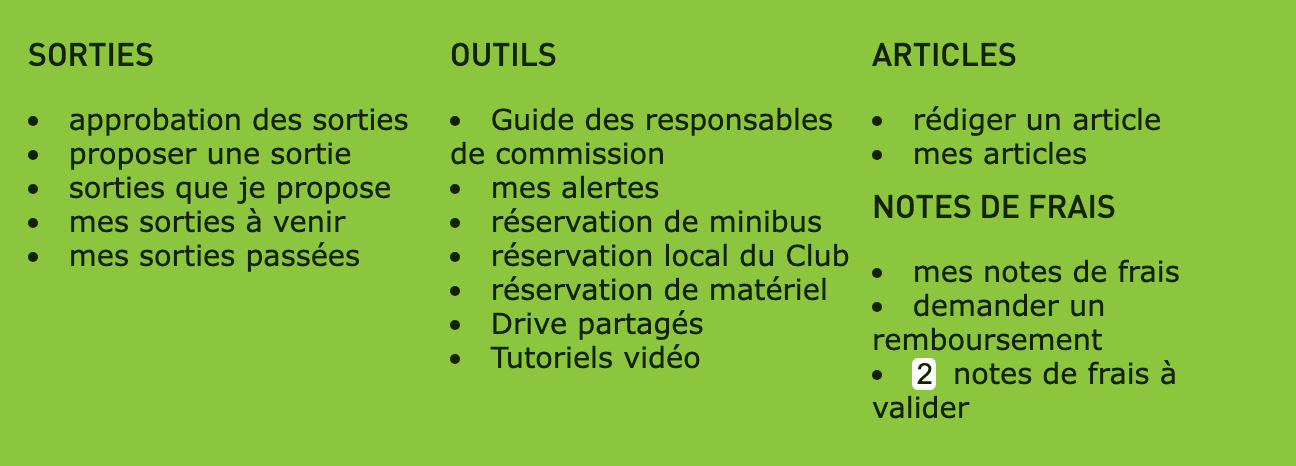
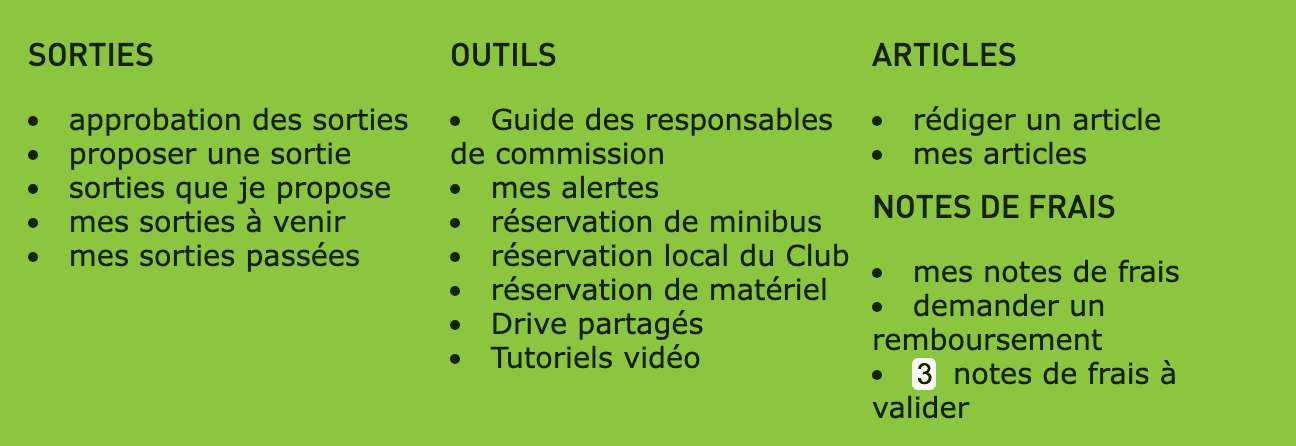
docs(notes-de-frais): captures refaites après les derniers correctifs, légendes, « à chaque modification », requête SQL d'abord sur staging
- Les six captures reprises avec les comptes de démo et des notes de démo
  propres (Playwright, 1280 px, échelle 2, pngquant), mêmes noms de fichiers :
  libellés du jour (« Nouvelle note de frais », « Justificatif (image) »,
  « ✓ Justificatifs joints. », « Don au club », « Brouillon »).
- Légendes alignées : bouton et état « Brouillon » de « Mes notes de frais »,
  nombre en tête de « à valider » et « Notes déjà traitées », « Retour aux
  notes à valider », choix du demandeur sous l'en-tête.
- La version avance à chaque modification de la note ; l'envoi d'un
  justificatif sur une note partie reçoit le même 422.
- Avant la mise en production : la requête SQL des `details` se lance d'abord
  sur staging (MySQL 5.7), elle n'a été essayée que sur MySQL 8.

diff --git a/docs/notes-de-frais.md b/docs/notes-de-frais.md
@@ -100,15 +100,15 @@ Seconde étape : une ligne par dépense avec son justificatif, le total, le choi
 
 ![Seconde étape d'une note de formation](images/notes-de-frais/hors-sortie-seconde-etape.png)
 
-« Mes notes de frais » : toutes les notes du demandeur, de sortie comme hors sortie, filtrables par type. Pour chacune : où elle en est (« Transmise au responsable de commission », « Transmise à la trésorerie », « Validée », « Comptabilisée », « À corriger » avec le message du refus), et les liens « Reprendre » ou « Corriger ». Le titre d'une note hors sortie ouvre sa page ; sous son montant, « dont X € remboursables » quand un plafond du club s'applique, ou « Don au club ». Une note de sortie renvoie vers la page de sa sortie.
+« Mes notes de frais » : toutes les notes du demandeur, de sortie comme hors sortie, filtrables par type, et le bouton « Nouvelle note de frais ». Pour chacune : où elle en est (« Brouillon », « Transmise au responsable de commission », « Transmise à la trésorerie », « Validée », « Comptabilisée », « À corriger » avec le message du refus), et les liens « Reprendre » ou « Corriger ». Le titre d'une note hors sortie ouvre sa page ; sous son montant, « dont X € remboursables » quand un plafond du club s'applique, ou « Don au club ». Une note de sortie renvoie vers la page de sa sortie.
 
 ![Page Mes notes de frais](images/notes-de-frais/hors-sortie-mes-notes.png)
 
-« Notes de frais à valider » : les notes qui attendent le responsable dans ses commissions.
+« Notes de frais à valider » : les notes qui attendent le responsable dans ses commissions, leur nombre en tête (« 3 notes en attente pour Sorties familles. »), puis le lien « Notes déjà traitées ».
 
 ![Page Notes de frais à valider](images/notes-de-frais/hors-sortie-a-valider.png)
 
-Page d'une note vue par le responsable : dépenses, justificatifs et mot du demandeur, puis « Refuser » ou « Valider ». Une fois la note passée, la page dit qui l'attend ou ce qui a été décidé. Le demandeur voit la même page, avec son choix (« Votre choix : remboursement, X € selon les plafonds du club. » ou « Votre choix : don au club. ») ; le responsable ne le voit pas.
+Page d'une note vue par le responsable : dépenses, justificatifs et mot du demandeur, puis « Refuser » ou « Valider ». Après sa décision, ou si la note a déjà été traitée entre-temps (« Cette note a déjà été traitée. »), la page propose « Retour aux notes à valider ». Une fois la note passée, la page dit qui l'attend ou ce qui a été décidé. Le demandeur voit la même page, avec son choix sous l'en-tête (« Votre choix : remboursement. », « Votre choix : remboursement, X € selon les plafonds du club. » ou « Votre choix : don au club. ») ; le responsable ne le voit pas.
 
 ![Page d'une note vue par le responsable](images/notes-de-frais/hors-sortie-detail-responsable.png)
 
@@ -138,10 +138,10 @@ Il n'y a pas d'adresse de trésorerie à configurer.
 - Plafonds : en configuration seulement. `<type>.plafonds.parNature` plafonne une nature sur chaque ligne (`portee: ligne`) ou sur son total dans la note (`portee: note`) ; `<type>.plafonds.total` plafonne le remboursable de la note.
 - Montants figés : à chaque envoi, `ExpenseReportCalculator::figerNoteHorsSortie()` enregistre le total déclaré, le total remboursable et, pour une formation, le taux kilométrique. Ce que le responsable a validé reste ce que la trésorerie paie, même si le barème change ensuite. Un brouillon ou une note à corriger suit le barème en vigueur.
 - Lecture de `details` : l'API refuse un montant ou une distance qui n'est pas un nombre positif d'au plus 100 000 (garde-fou technique), et deux lignes de même identifiant (`CoherenceValidator`). À la lecture, toute valeur passe par `ExpenseReportCalculator::nombre()` : un texte ou un nombre infini écrit en base compte pour 0, pour qu'aucune note, de sortie comme hors sortie, ne fasse échouer une liste.
-- Écritures simultanées : la note a un verrou optimiste (colonne `version`, qui avance à chaque écriture de la note).
+- Écritures simultanées : la note a un verrou optimiste (colonne `version`, qui avance à chaque modification de la note).
   - Onglet périmé : le demandeur lit `version` avec sa note, et le formulaire la renvoie dans chaque `PATCH`. Si la note a changé depuis (autre onglet, autre appareil), l'API répond 409 « Cette note a été modifiée dans un autre onglet ou sur un autre appareil. » sans rien écrire, et le formulaire propose « Recharger la dernière version ». Les écritures d'un même formulaire (enregistrement automatique des lignes, « Enregistrer pour plus tard », envoi) partent une par une, chacune avec la version reçue de la précédente : sinon le formulaire se contredirait lui-même. `version` est facultatif : compta-club ne l'envoie pas, et sans lui la dernière écriture passe.
   - Écritures croisées : de deux requêtes qui écrivent en même temps à partir de la même version (un envoi et une modification des lignes, deux décisions), la seconde reçoit un 409 « Cette note a été modifiée en même temps par une autre action. » et ne modifie pas la note. Le mail d'une note de sortie, lui, est mis en file pendant l'écriture : sur un conflit, il part quand même, et deux décisions différentes au même moment peuvent envoyer les deux mails au demandeur.
-  - Note partie depuis un autre onglet : une modification reçoit 422 « Cette note a déjà été envoyée : elle ne peut plus être modifiée. », et le formulaire passe à l'état « envoyée ».
+  - Note partie depuis un autre onglet : une modification, ou l'envoi d'un justificatif, reçoit 422 « Cette note a déjà été envoyée : elle ne peut plus être modifiée. », et le formulaire passe à l'état « envoyée ».
   - Le téléversement d'un justificatif verrouille la note et relit son statut avant d'écrire le fichier ; il ne fait pas avancer la version.
 - Migrations (jouées au déploiement par `clevercloud/post_build.sh`) :
   - `Version20261011120000` : type de note, sortie facultative, commission, objet, date de la dépense, lien de la formation, mot pour le responsable, totaux figés ;
@@ -159,7 +159,7 @@ Il n'y a pas d'adresse de trésorerie à configurer.
 1. [ ] Vérifier la nouvelle version de compta-club contre staging, qui tourne encore sur `main`, sans les notes hors sortie (préversion Vercel ou poste local, `NEXT_PUBLIC_API_URL` sur l'API de staging) : connexion, liste « À valider », filtres, page et PDF d'une note de sortie.
 2. [ ] Faire la recette de la plateforme sur staging avec de vrais rôles, mails et compta-club compris : la préversion Vercel de compta-club ou un poste local, `NEXT_PUBLIC_API_URL` sur l'API de staging. Les droits des données de démo ne reflètent pas la prod.
 3. [ ] Sur une copie de la prod, lire toutes les notes existantes par la nouvelle API : `GET /admin/notes-de-frais?pagination=false&inclure_brouillons=true` en gestionnaire, puis la liste du demandeur (« Mes notes de frais », `GET /notes-de-frais?inclure_brouillons=true`). Aucune ne doit faire échouer la lecture : une seule note illisible bloquerait compta-club.
-4. [ ] Sur la même copie, repérer les notes de sortie dont un montant ou une distance est écrit en texte : un texte qui n'est pas un nombre (« 45,50 », « abc ») compte désormais pour 0, et le total de la note baisse d'autant. La requête, en lecture seule, liste aussi les nombres écrits entre guillemets (« 12 »), qui gardent leur valeur, et les `details` qui ne sont pas du JSON lisible. Corriger les notes listées avec la trésorerie avant la mise en production.
+4. [ ] Sur la même copie, repérer les notes de sortie dont un montant ou une distance est écrit en texte : un texte qui n'est pas un nombre (« 45,50 », « abc ») compte désormais pour 0, et le total de la note baisse d'autant. La requête, en lecture seule, liste aussi les nombres écrits entre guillemets (« 12 »), qui gardent leur valeur, et les `details` qui ne sont pas du JSON lisible. Corriger les notes listées avec la trésorerie avant la mise en production. La requête n'a été essayée que sur MySQL 8 : la lancer d'abord sur staging (MySQL 5.7) pour vérifier qu'elle passe.
 
    ```sql
    SELECT id, status, user_id, LEFT(texte, 200) AS details
